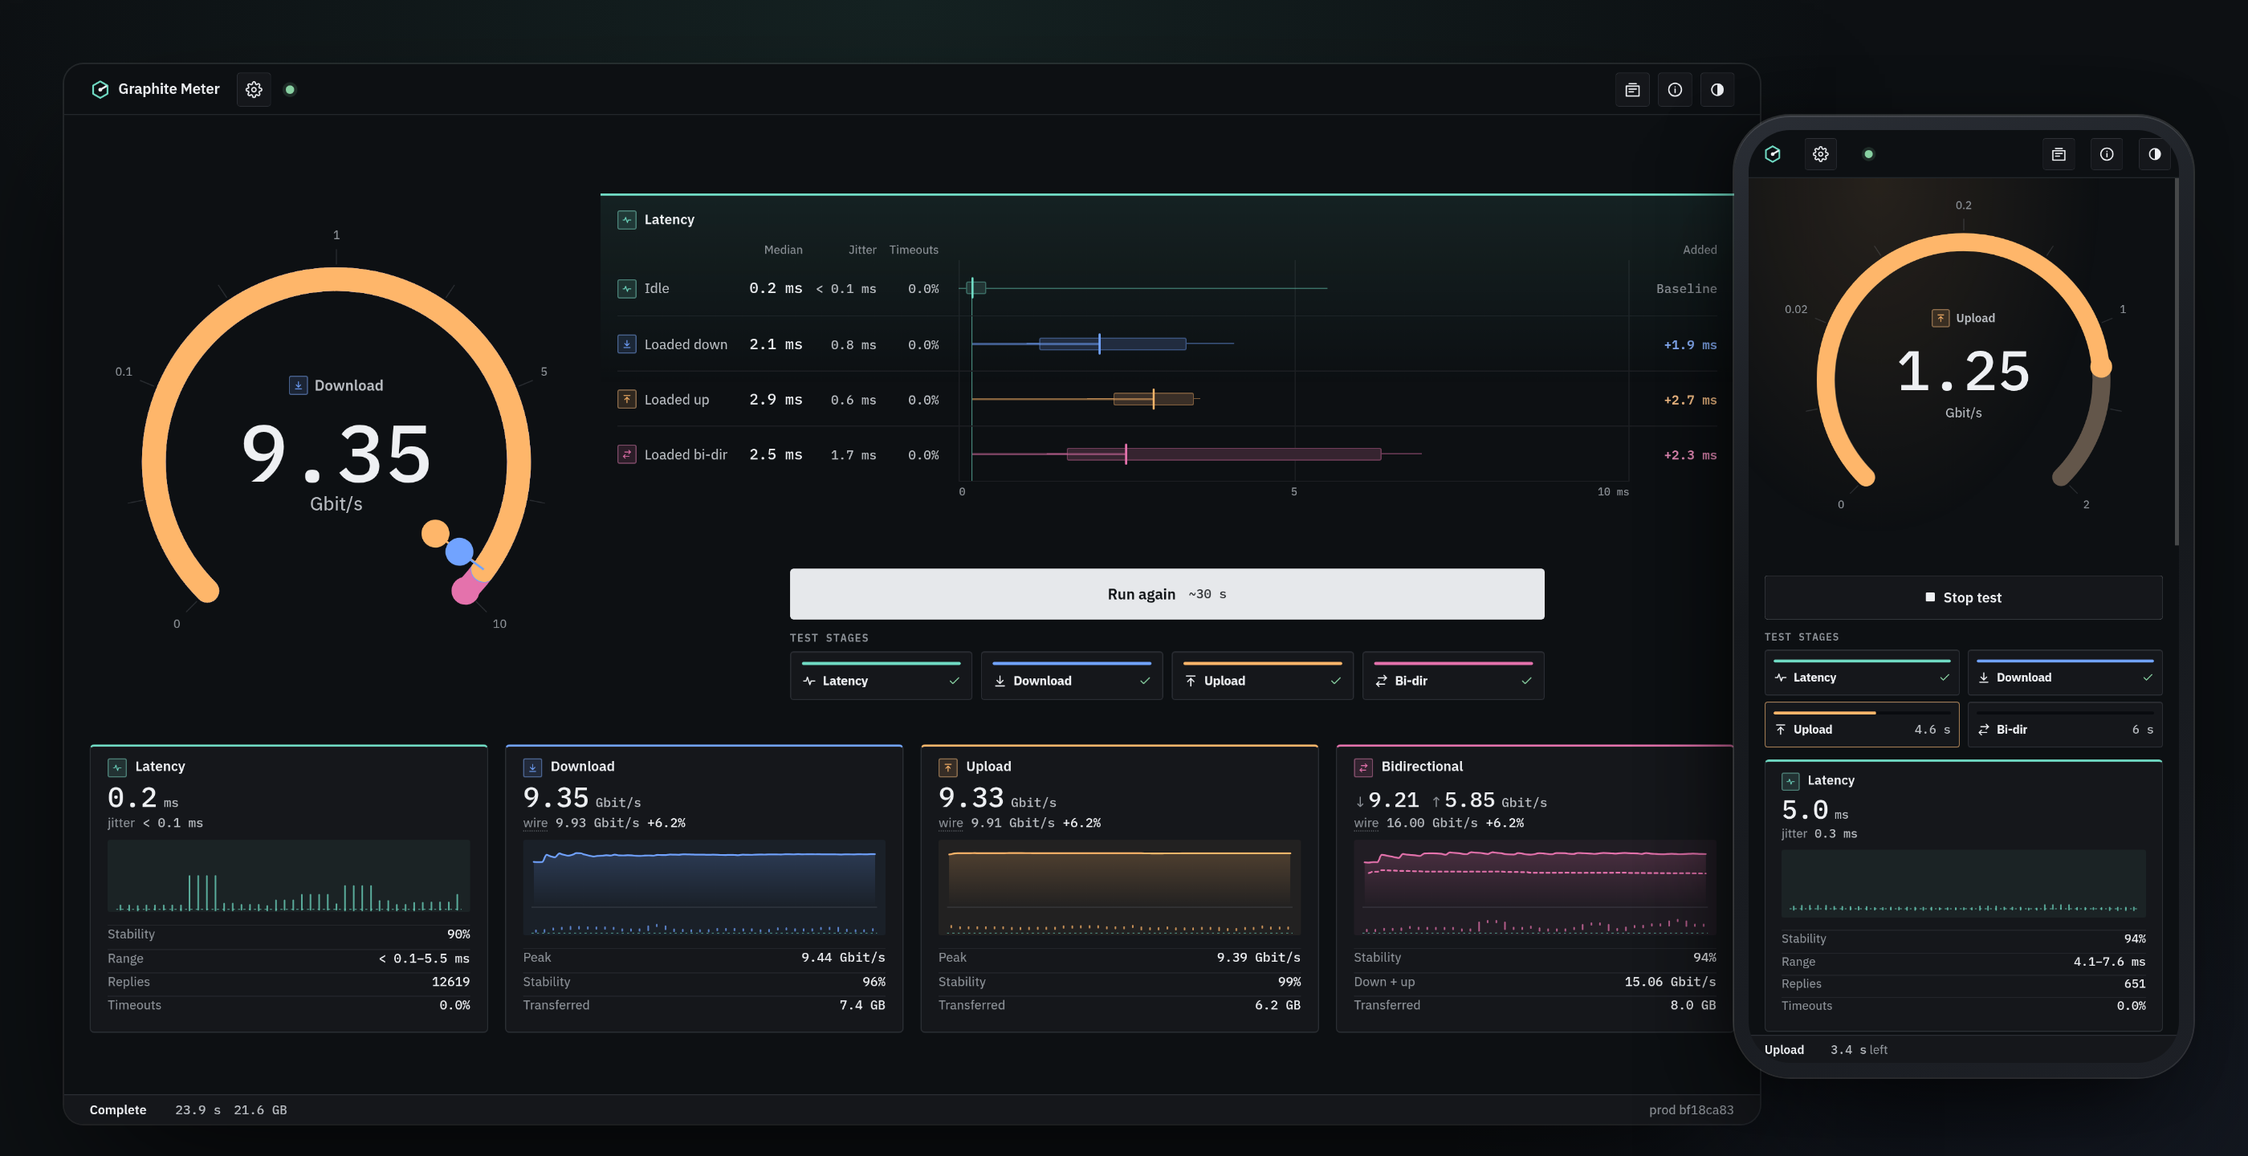
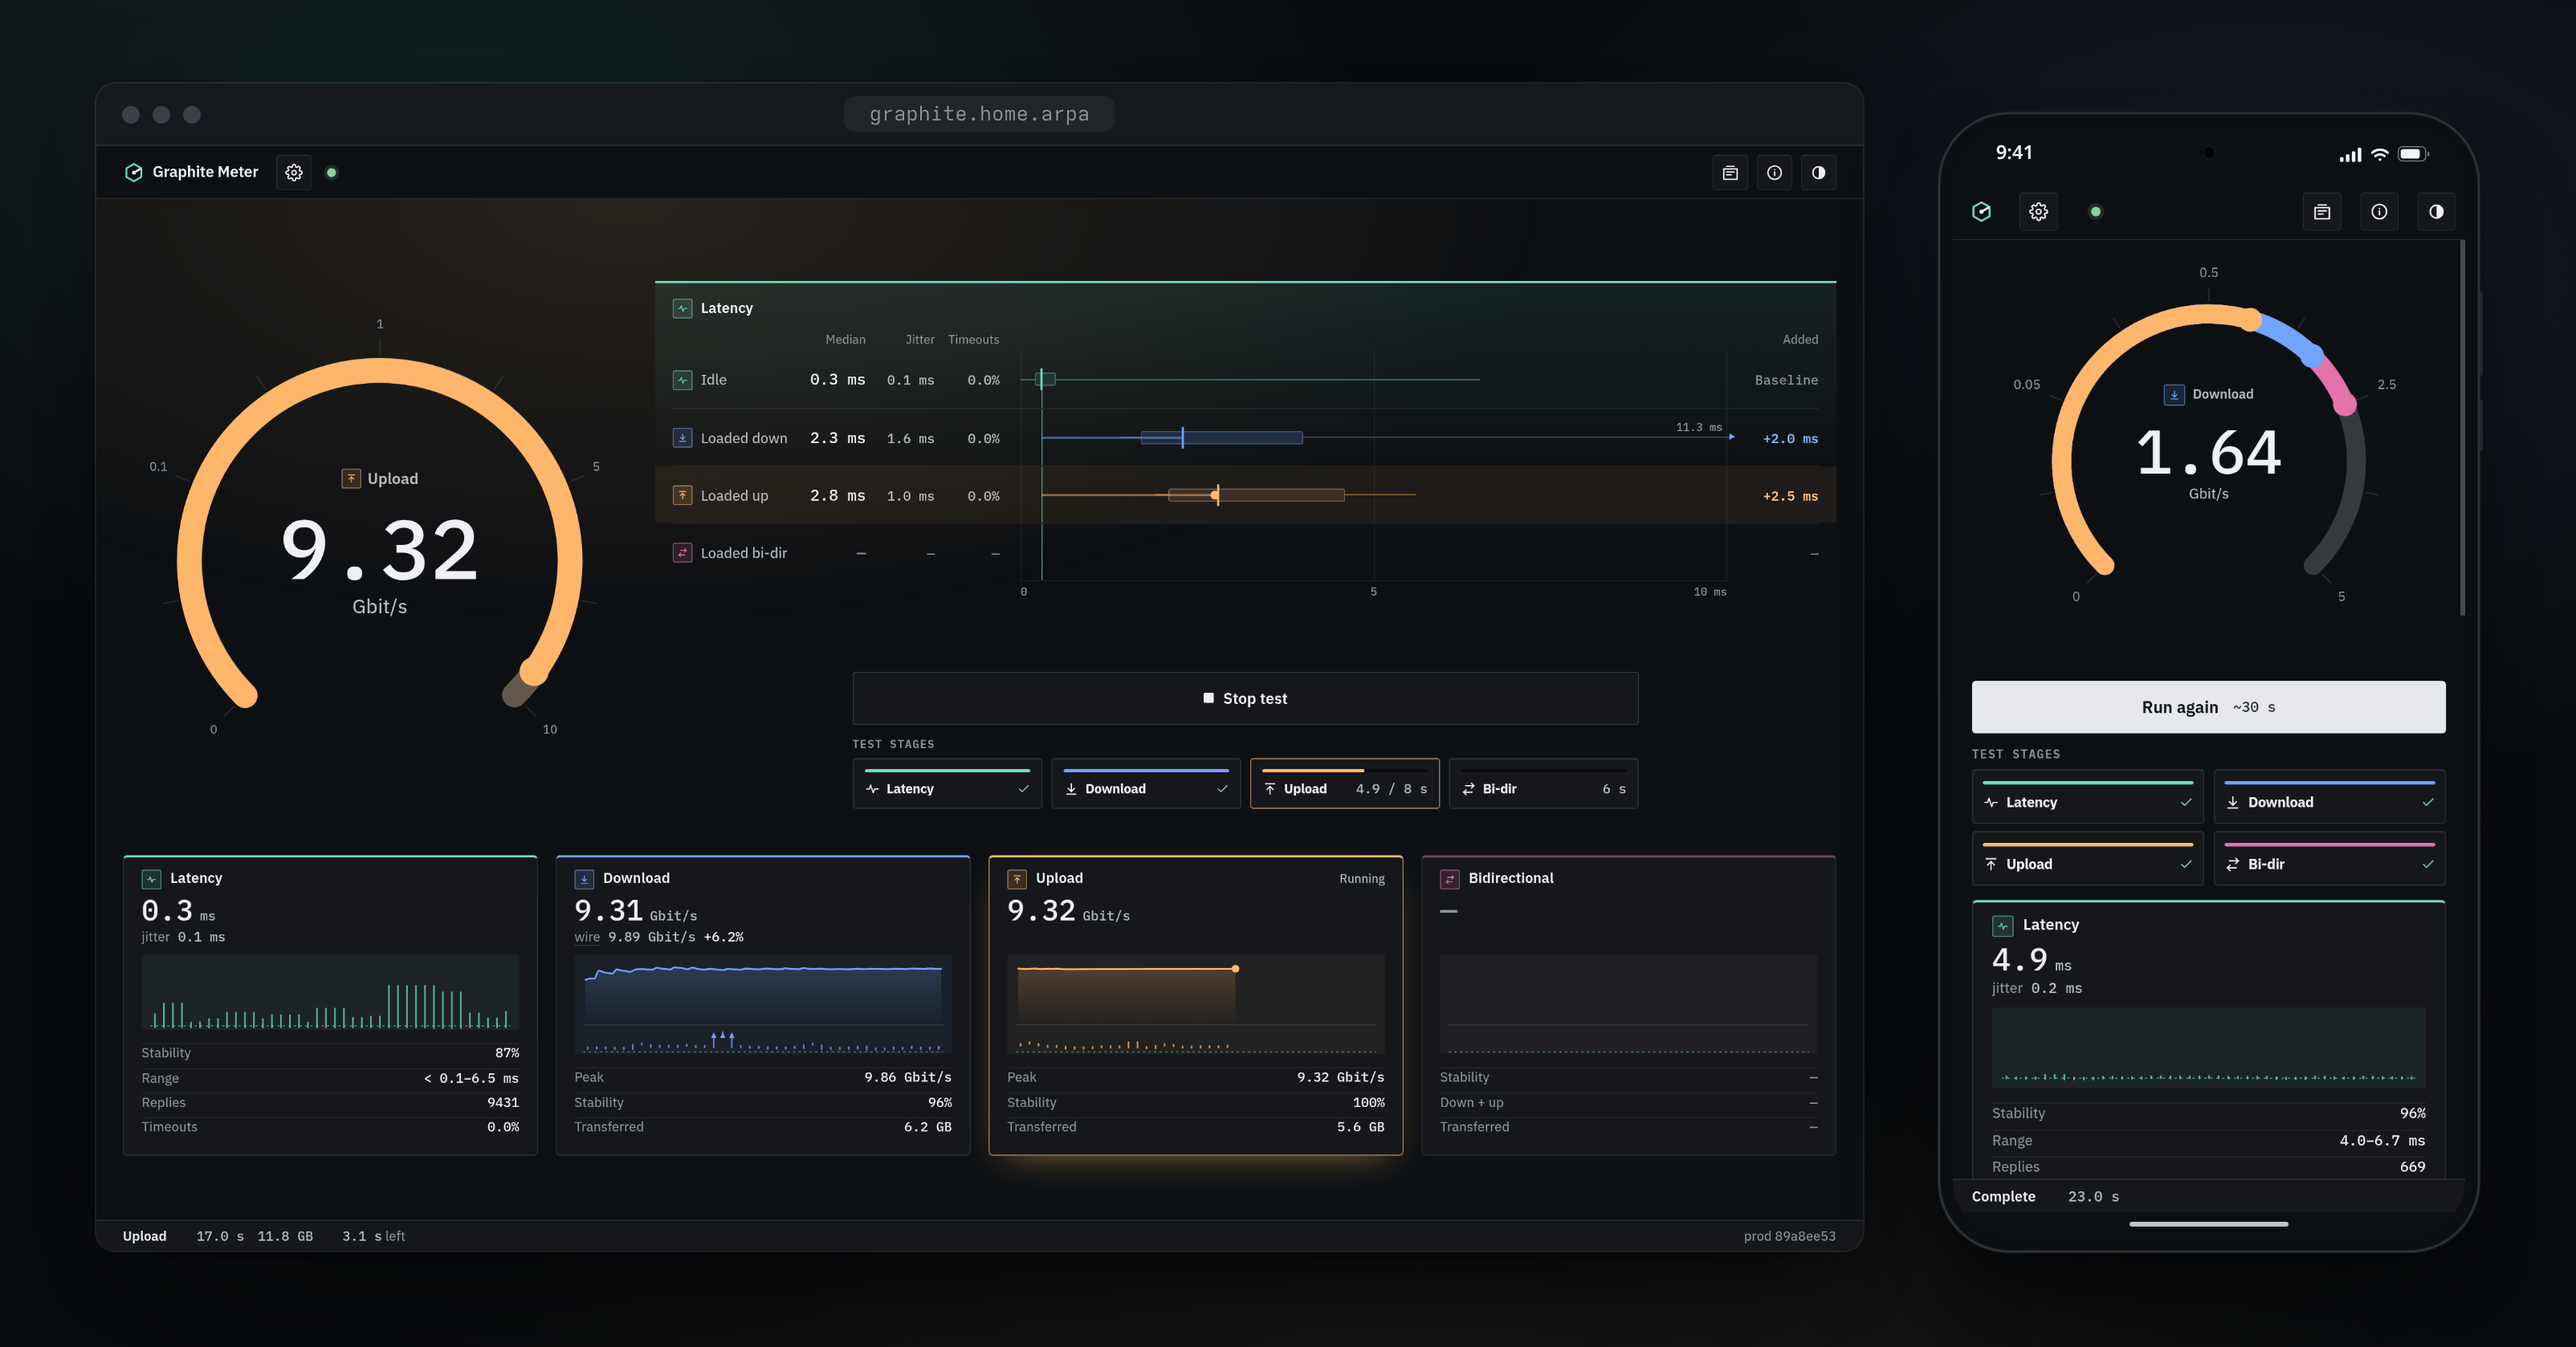
Retake the gallery so each stage reads apart, framed on a quiet stage
On a symmetric 10 GbE link the dial's results all sat at its far end,
so their markers crowded around the head; the hero's phone was a plain
rounded box beside an unframed screenshot. The completed views now come
from a laptop on Wi-Fi 7, whose upload is about half its download, so
each stage's result stands apart on the ring; the hero sets the wired
10 GbE workstation mid-run, with only the live needle, beside a phone on
Wi-Fi 6E with its finished result. Every capture is still a real run
through a shaped path. Desktop captures sit in a plain browser window
and phone captures in a phone outline with its status bar and home
indicator, on a dark or light stage with faint stage-hue light and
layered shadows.

diff --git a/docs/SCREENSHOTS.md b/docs/SCREENSHOTS.md
@@ -2,9 +2,10 @@
 
 [Project overview](../README.md) · [Quick deployment](DEPLOYMENT.md#fast-local-deployment) · [What the numbers mean](MEASUREMENTS.md)
 
-Every capture is a real run. The servers are local, each behind a link shaper that models a wired 10 GbE LAN
-(the phone reaches its server over a slower path that models Wi-Fi), so the figures are what the meter measured
-over those links, not a benchmark of a network. Bidirectional upload is held back by the capturing machine's CPU.
+Every capture is a real run. The servers are local, each behind a link shaper that models one client's path into
+a 10 GbE home network: a laptop on Wi-Fi 7 for the completed views, a workstation wired at 10 GbE in the README's
+hero, and a phone on Wi-Fi 6E. The figures are what the meter measured over those paths, not a benchmark of a
+network.
 
 ## The completed test
 
@@ -12,7 +13,7 @@ The dial carries the run's headline and every stage's result on one ring; the la
 latency side by side with what each load added; one card per stage, under its key, keeps the stage's graph with
 the latency its load caused underneath.
 
-<img src="assets/desktop.png" alt="Completed 10 GbE test: 9.35 Gbit/s down, 9.33 Gbit/s up, 0.2 ms idle latency, the latency lanes and one card per stage" width="1080">
+<img src="assets/desktop.png" alt="Completed test from a laptop on Wi-Fi 7: 3.42 Gbit/s down, 1.86 Gbit/s up, 2.8 ms idle latency, the latency lanes and one card per stage" width="1080">
 
 <img src="assets/light.png" alt="The same completed test in the light theme" width="1080">
 
@@ -34,7 +35,7 @@ Up to four servers share one run and each is probed for latency. One selector ov
 one; the stage cards, the latency lanes and Details follow it, and the lanes name their server. A server that
 leaves marks its stage **Partial**, and the card names the reason.
 
-<img src="assets/multi-server.png" alt="Three servers on one LAN sharing a run, with the server selector over the dial" width="1080">
+<img src="assets/multi-server.png" alt="Three servers on the home network sharing a run, with the server selector over the dial" width="1080">
 
 <img src="assets/partial.png" alt="A three-server run where one server's connection was lost during download, marked Partial with the reason on the card" width="1080">
 
@@ -48,7 +49,7 @@ the live meter's stage and latency cards, its server selector and the evidence s
 ## Phone
 
 <p align="center">
-<img src="assets/mobile.png" alt="Phone view of a completed test over Wi-Fi" width="320">
+<img src="assets/mobile.png" alt="Phone view of a completed test over Wi-Fi 6E" width="320">
 <img src="assets/mobile-history.png" alt="Phone view of a saved result" width="320">
 </p>
 
@@ -58,9 +59,12 @@ The TUI runs the same measurement against the same servers and ends with the res
 
 <img src="assets/tui.png" alt="Native terminal client after a complete latency, download and upload run" width="1080">
 
-Browser captures: production build, Chrome 154, 1600 × 1000 (workspace 1920 × 1080) and 430 × 932 at 2× density,
-stages latency 4 s, download and upload 8 s, bidirectional 6 s, a 1 s warmup, dial maximum 10 Gbit/s on desktop.
-Links: the desktop's path carries about 9.4 Gbit/s each way with 0.1 ms of one-way delay and a millisecond or two
-of queue; the phone's carries 1.65 Gbit/s down and 1.25 Gbit/s up with 1.5 ms of delay; the three servers of the
-multi-server run each have their own path, and together they fill a 10 GbE link. The terminal capture is the TUI's own 120 × 40 screen rendered as text.
+Browser captures: production build, Chrome 154, 1600 × 1000 (workspace 1920 × 1080) and 430 × 864 (the page area
+of a 430 × 932 phone) at 2× density, stages latency 4 s, download and upload 8 s, bidirectional 6 s, a 1 s warmup,
+the dial's maximum automatic (10 Gbit/s on the workstation).
+Paths: the laptop's carries 3.4 Gbit/s down and 1.9 Gbit/s up with 1 ms of one-way delay; the workstation's about
+9.4 Gbit/s each way with no added delay; the phone's 1.65 Gbit/s down and 0.86 Gbit/s up with 1.5 ms. Each queues a
+few milliseconds of data, so latency under load comes from real queueing. The three servers of the multi-server run
+each have their own path, and together they fill the laptop's. The terminal capture is the TUI's own 120 × 40 screen
+on the workstation's path, rendered as text. The captures are framed in a plain browser window or a phone outline.
 To measure your own network, follow [deployment and configuration](DEPLOYMENT.md).

diff --git a/README.md b/README.md
@@ -11,9 +11,9 @@ One Go server, a responsive web interface, and a native terminal client.
 
 [Quick start](#quick-start) · [Measurements](#what-you-can-measure) · [Browser](#browser-client) · [Terminal](#native-terminal-client) · [Documentation](#documentation)
 
-<img src="docs/assets/hero.png" alt="A completed 10 GbE test on desktop, 9.35 Gbit/s down and 9.33 Gbit/s up with 0.2 ms idle latency, beside a phone measuring upload over Wi-Fi" width="1080">
+<img src="docs/assets/hero.png" alt="A wired 10 GbE workstation mid-run, uploading at 9.32 Gbit/s with 0.3 ms idle latency, beside a phone with its finished Wi-Fi result" width="1080">
 
-<sub>Real runs over a shaped 10 GbE LAN and a Wi-Fi path · <a href="docs/SCREENSHOTS.md">screenshot gallery</a></sub>
+<sub>Real runs over shaped home-network paths · <a href="docs/SCREENSHOTS.md">screenshot gallery</a></sub>
 
 </div>
 
